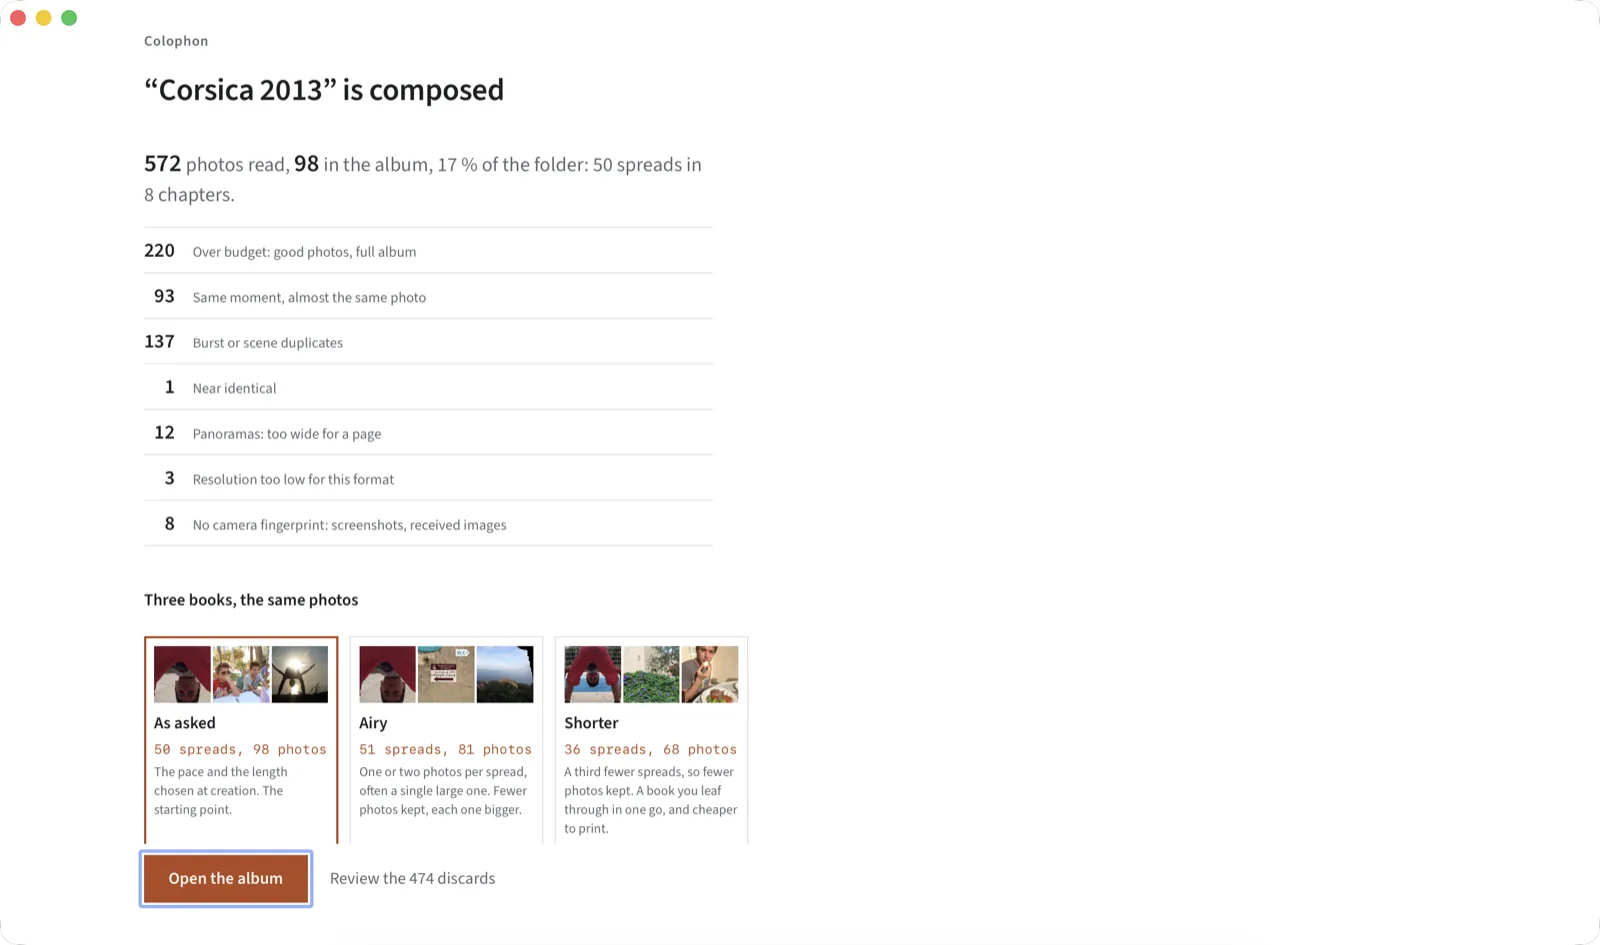
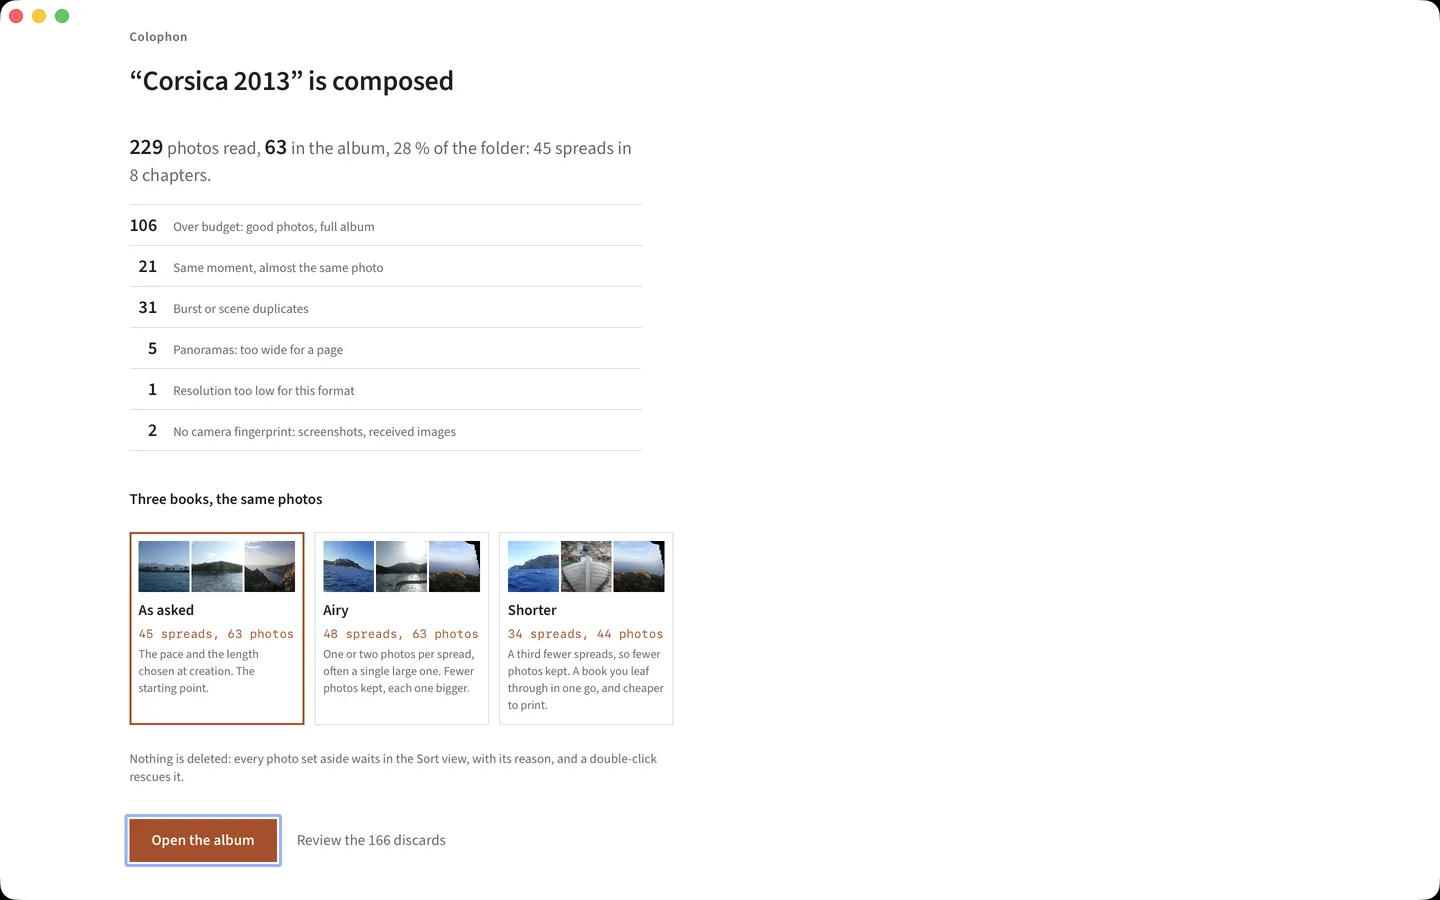
Captures et image de partage sans visage ; textes alternatifs à jour

diff --git a/src/copy.ts b/src/copy.ts
@@ -101,7 +101,7 @@ export const en: Copy = {
       "on <b>50 spreads</b> across <b>8 chapters</b>, in under a minute, with every discarded frame listed and explained.",
     pipeline: ["scan", "analyse", "curate", "compose", "export"],
     caption: "A 21 × 21 cm album, composed from a holiday folder, untouched by hand.",
-    shot: "The summary Colophon shows after composing: 572 photos read, 98 in the album, 50 spreads in 8 chapters, the discards counted by reason, and three versions of the book to choose from.",
+    shot: "The summary Colophon shows after composing: 229 photos read, 63 in the album, 45 spreads in 8 chapters, the discards counted by reason, and three versions of the book to choose from.",
   },
   promise: {
     kicker: "What it guarantees",
@@ -128,7 +128,7 @@ export const en: Copy = {
       "This is the part nobody else shows you, and it is the part that makes automatic curation something you can trust rather than something you have to check.",
     ],
     figure: "A spread is drawn at its trimmed size. The bleed sits behind the cut, where the guillotine will take it.",
-    shot: "The Sort view: discarded photos grouped by reason, near identical, panoramas too wide for a page, resolution too low, with one selected and the photo it lost to shown beside it.",
+    shot: "The Sort view: 166 discarded photos with their reason, starting with the good photos that did not fit the book, and the button to review them one by one.",
   },
   print: {
     kicker: "Printing",
@@ -250,7 +250,7 @@ export const fr: Copy = {
       "sur <b>50 planches</b> et <b>8 chapitres</b>, en moins d’une minute, chaque photo écartée étant listée et expliquée.",
     pipeline: ["lecture", "analyse", "curation", "composition", "export"],
     caption: "Un album 21 × 21 cm, composé depuis un dossier de vacances, sans une retouche à la main.",
-    shot: "Le bilan que Colophon affiche après la composition, ici dans l’interface anglaise : 572 photos lues, 98 dans l’album, 50 planches en 8 chapitres, les photos écartées comptées par raison, et trois versions du livre au choix.",
+    shot: "Le bilan que Colophon affiche après la composition, ici dans l’interface anglaise : 229 photos lues, 63 dans l’album, 45 planches en 8 chapitres, les photos écartées comptées par raison, et trois versions du livre au choix.",
   },
   promise: {
     kicker: "Ce qui est garanti",
@@ -277,7 +277,7 @@ export const fr: Copy = {
       "C’est la partie que personne d’autre ne montre, et c’est elle qui fait la différence entre une curation automatique à laquelle on se fie et une curation qu’il faut vérifier.",
     ],
     figure: "Une planche s’affiche à sa taille rognée. Le fond perdu reste derrière la coupe, là où le massicot le prendra.",
-    shot: "La vue Tri, ici dans l’interface anglaise : les photos écartées groupées par raison (quasi identiques, panoramas trop larges pour une page, définition trop faible), l’une sélectionnée, et la photo qui l’a emporté montrée à côté.",
+    shot: "La vue Tri, ici dans l’interface anglaise : 166 photos écartées avec leur raison, à commencer par les bonnes photos qui n’ont pas trouvé de place dans le livre, et le bouton pour les revoir une à une.",
   },
   print: {
     kicker: "Impression",
